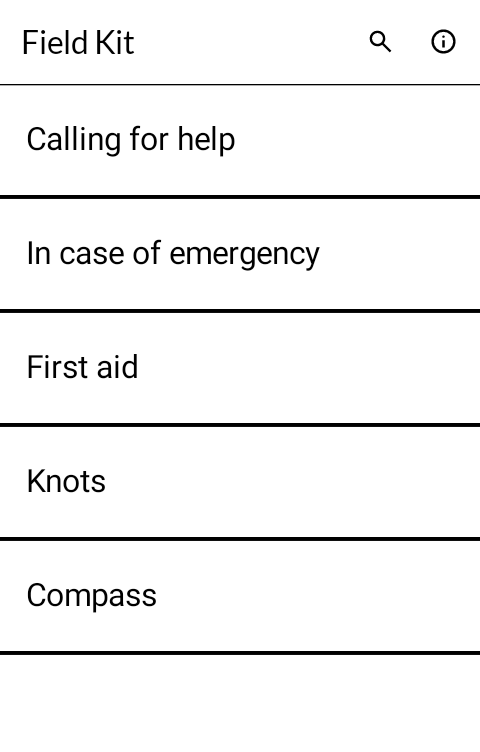
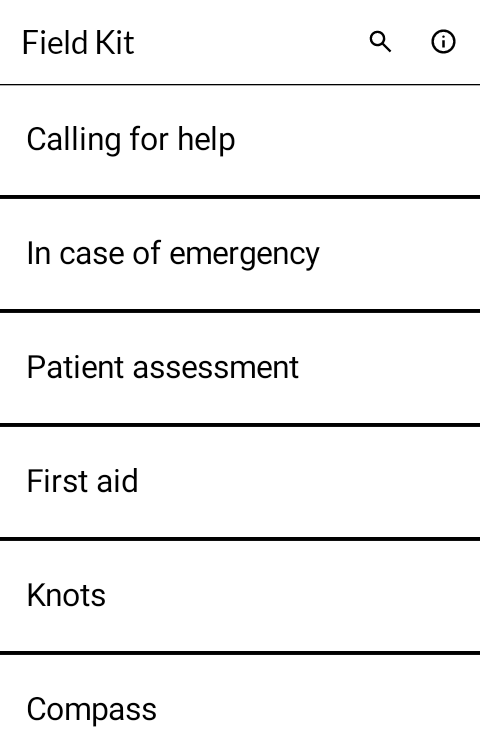
Screenshots of 0.1.1

diff --git a/README.md b/README.md
@@ -9,8 +9,8 @@ and it will install on any Android 12 device.
 
 | | |
 |---|---|
-| ![The home screen](screenshots/1-home.png) | ![A first-aid page](screenshots/2-aid.png) |
-| ![A knot, step by step](screenshots/3-knot.png) | ![The compass and your position](screenshots/4-compass.png) |
+| ![The home screen](screenshots/1-home.png) | ![Patient assessment at the primary stage](screenshots/2-assessment.png) |
+| ![A first-aid page, opening on what to do now](screenshots/3-aid.png) | ![A knot, step by step](screenshots/4-knot.png) |
 
 ## What it does
 
